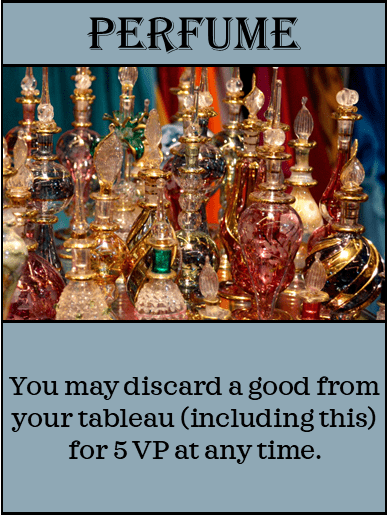
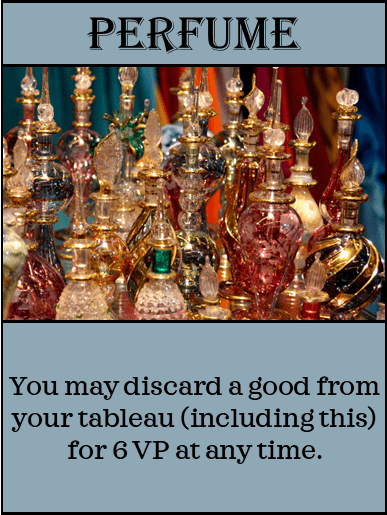
Refine good text with minor balance changes

Changed region(s): [[0.155, 0.8388, 0.3411, 0.901], [0.4341, 0.8699, 0.5891, 0.901], [0.7752, 0.8699, 0.8372, 0.901]]

diff --git a/static/Cards/Trinkets.js b/static/Cards/Trinkets.js
@@ -9,7 +9,7 @@ export const allTrinkets = [
         "VP": "(player.getNumTrinkets() >= 1)*1 + (player.getNumTrinkets() >= 3)*4 + (player.getNumTrinkets() >= 5)*5 + (player.getNumTrinkets() >= 7)*10",
         "deckRestriction": "false"
     },
- */   {
+    {
         "name": "Bracelets",
         "type": "Trinket",
         "image": "static/Images/Bracelets.png",
@@ -49,7 +49,7 @@ export const allTrinkets = [
         "VP": "players[player.neighborNums[0]].tableau.filter(good => players[player.neighborNums[1]].tableau.includes(good) && !player.tableau.includes(good)).length",
         "deckRestriction": "false"
     },
- /*   {
+    {
         "name": "Fabrics",
         "type": "Trinket",
         "image": "static/Images/Fabrics.png",
@@ -79,7 +79,7 @@ export const allTrinkets = [
         "VP": "0",
         "deckRestriction": "false"
     },
- /*   {
+    {
         "name": "Masks",
         "type": "Trinket",
         "image": "static/Images/Masks.png",
@@ -89,7 +89,7 @@ export const allTrinkets = [
         "VP": "0",
         "deckRestriction": "false"
     },
-    {
+ /*   {
         "name": "Necklaces",
         "type": "Trinket",
         "image": "static/Images/Necklaces.png",

diff --git a/static/Cards/Fruits.js b/static/Cards/Fruits.js
@@ -147,7 +147,7 @@ export const allFruits = [
         "onPlay": "none",
         "active": "none",
         "ongoing": "none",
-        "VP": "Math.floor(player.numCoins/3)",
+        "VP": "Math.floor((player.numCoins + player.choice[0] + player.choice[1])/3)",
         "deckRestriction": "false"
     }*/
 ]
